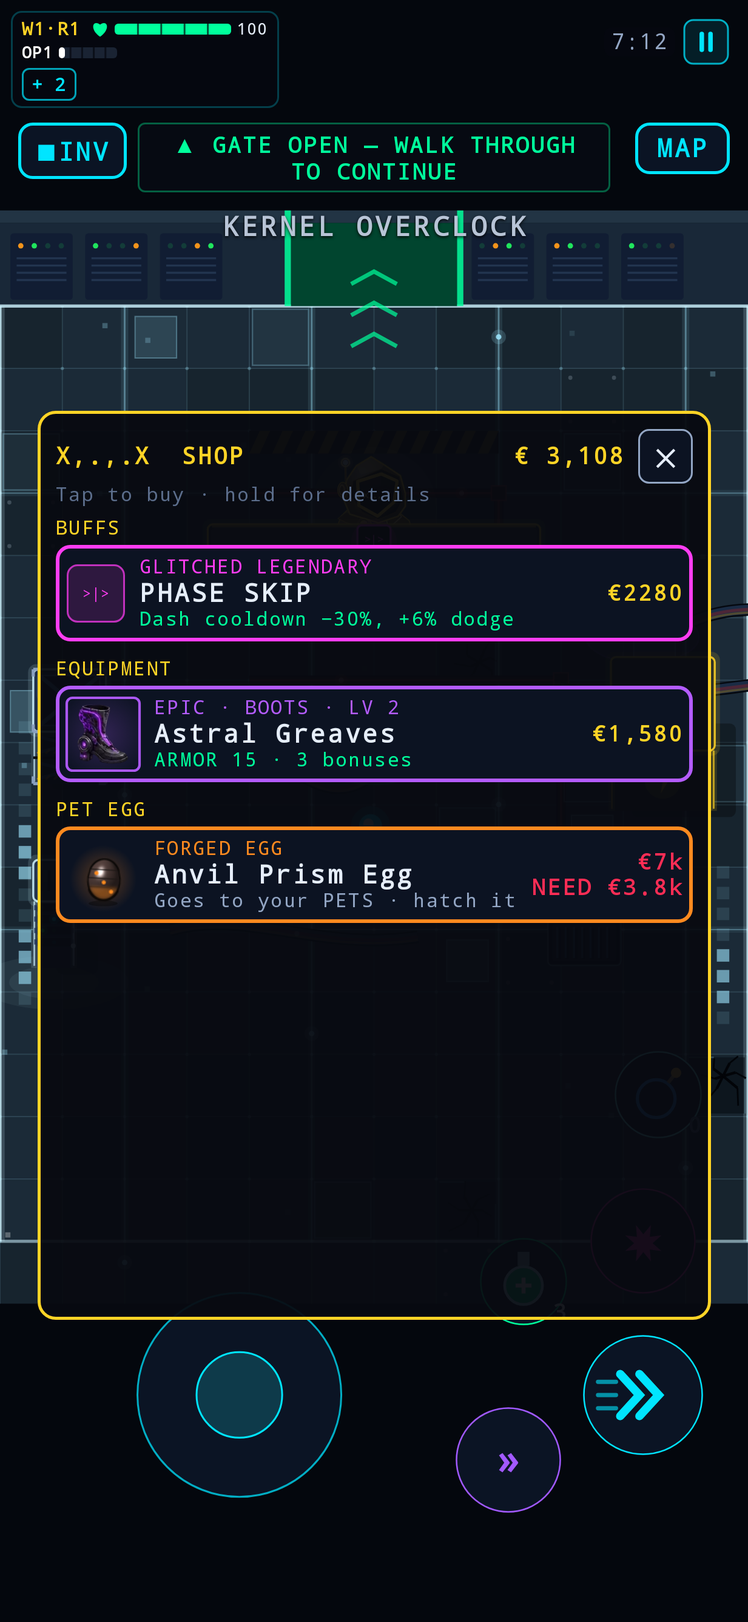
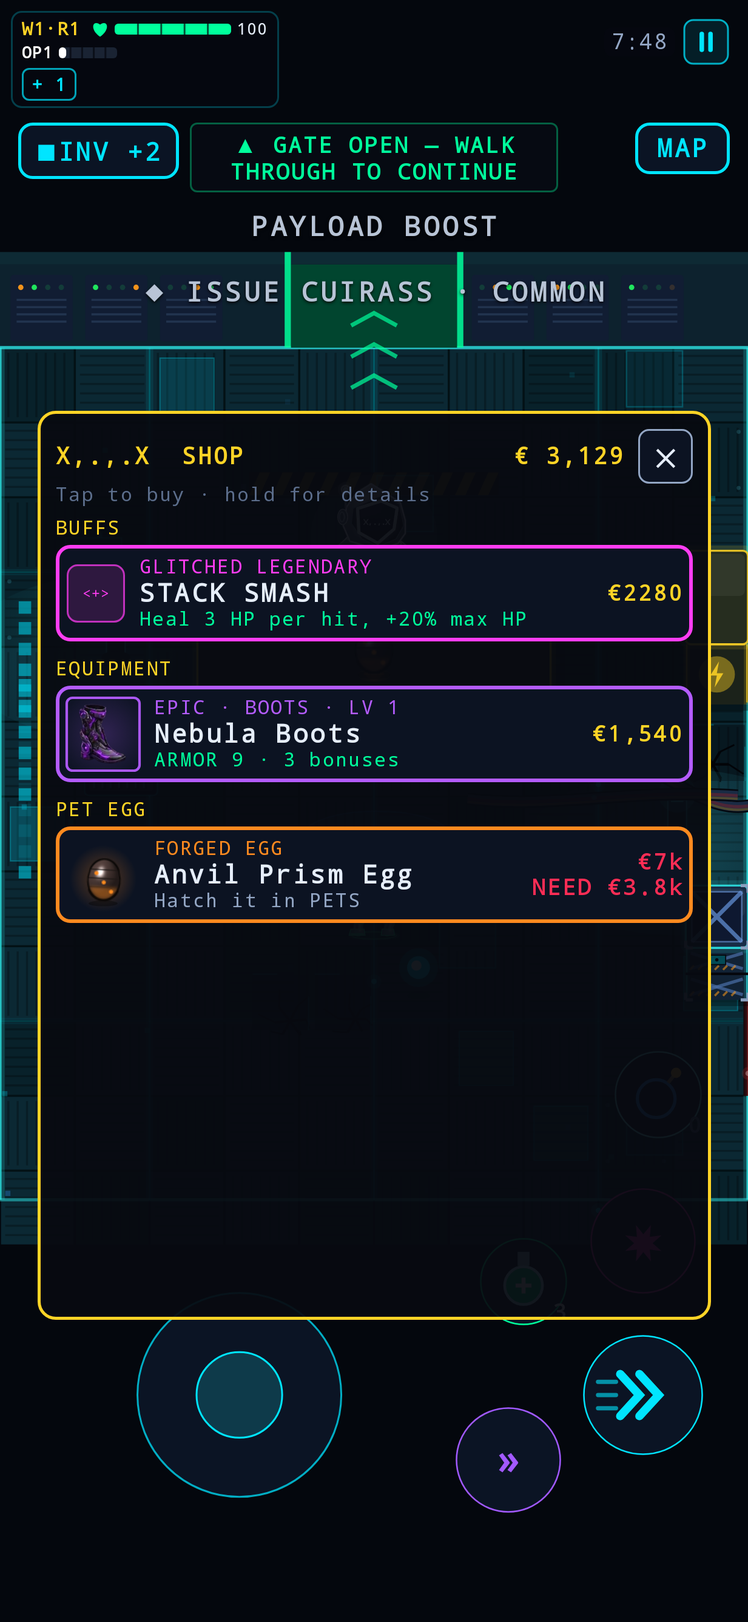
0.53.2: square shop counter shows the gear and egg for sale; barriers kept to the walls
The counter (340 x 170) lays out [ : egg : ]: two pieces of gear front and
back on each side of the egg, all at world-drop size over a table-high
rarity glow. Shop rooms get 1-2 slim fixtures flush to the side walls and
never inside the clear zone round the counter (shopKeepOut), checked over
300 rooms in phone and PC widths. Co-op protocol v37 (new room layout).

Claude-Session: https://claude.ai/code/session_01J4fYSi9rfQR62SLnfyrDCN

diff --git a/app/src/main/java/com/cyberoperative/game/ui/game/ArenaRenderer.kt b/app/src/main/java/com/cyberoperative/game/ui/game/ArenaRenderer.kt
@@ -1182,8 +1182,15 @@ class ArenaRenderer {
      * What a prop needs to know about its room, so the same prop art can also be drawn outside a
      * live game (asset sheets, the Idle Run widget).
      */
-    private val SHOP_EGG_PX = 38f
-    private val SHOP_EGG_GLOW = 0.45f
+    /** Shop counter items: the same size as a gear drop in the world (LootSprites, 58). */
+    private val SHOP_ITEM_PX = 58f
+
+    /** A small version of the rarity's loot glow, kept low on the counter (never over the keeper). */
+    private fun DrawScope.tableGlow(rarity: com.cyberoperative.game.data.GearRarity, x: Float, y: Float, time: Float) {
+        clipRect(x - 50f, y - SHOP_ITEM_PX - 18f, x + 50f, y + 12f) {
+            with(com.cyberoperative.game.ui.common.GearIcons) { drawLootBeam(rarity, x, y, time, 0.55f) }
+        }
+    }
 
     private class PropRoom {
         var keeper = com.cyberoperative.game.engine.KeeperLook.GOLD
@@ -1193,12 +1200,13 @@ class ArenaRenderer {
         var boss = false
         var shopItems: List<com.cyberoperative.game.engine.ShopItem> = emptyList()
         var shopEgg: com.cyberoperative.game.engine.EggShopItem? = null
+        var shopGear: List<com.cyberoperative.game.engine.GearShopItem> = emptyList()
     }
     private val liveRoom = PropRoom()
     private val aloneRoom = PropRoom()
 
     private fun propRoomOf(g: GameEngine): PropRoom = liveRoom.apply {
-        keeper = g.keeperLook; vaultReady = g.vaultReady; env = styleOf(g).env; inferno = infernoRoom(g); boss = g.plan.kind == LevelKind.BOSS; shopItems = g.shopItems; shopEgg = g.shopEgg
+        keeper = g.keeperLook; vaultReady = g.vaultReady; env = styleOf(g).env; inferno = infernoRoom(g); boss = g.plan.kind == LevelKind.BOSS; shopItems = g.shopItems; shopEgg = g.shopEgg; shopGear = g.shopGear
     }
 
     private fun themed(look: Look, kind: ObstacleKind, room: PropRoom): Look {
@@ -1504,44 +1512,48 @@ class ArenaRenderer {
                 drawCircle(Palette.Red.copy(alpha = 0.6f + 0.4f * p), 3.5f, Offset(r.centerX, topY + r.height / 2f))
             }
             ObstacleKind.SHOP_COUNTER -> {
-                // Glowing gold edge and the mods for sale laid out on the counter.
+                // 0.53.2 (owner): the gear for sale laid out [ : egg : ], two pieces (back and front)
+                // each side of the egg, at world-drop size over a table-high glow of its rarity, spaced
+                // so no two sprites touch. Each co-op player sees their own stock.
                 drawLine(Palette.Gold.copy(alpha = 0.5f), Offset(r.left + 4f, topY + 2f), Offset(r.right - 4f, topY + 2f), 2f)
-                val items = room.shopItems
-                val n = items.size.coerceAtLeast(1)
-                for ((i, it) in items.withIndex()) {
-                    val cx = r.left + r.width * (i + 0.5f) / n
-                    val cy = topY + r.height / 2f
-                    val col = Color(it.def.rarity.color)
-                    val bob = sin(time * 2.4f + i) * 2f
+                val gear = room.shopGear
+                val egg = room.shopEgg?.takeIf { !it.sold }
+                val colX = floatArrayOf(r.left + r.width / 6f, r.centerX, r.right - r.width / 6f)
+                val backY = topY + r.height * 0.41f
+                val frontY = topY + r.height * 0.92f
+                // Gear i: column 0 (left) or 2 (right), back row first so the front row overlaps it.
+                for (row in 0..1) for (side in 0..1) {
+                    val idx = side * 2 + row
+                    val it = gear.getOrNull(idx) ?: continue
+                    val cx = colX[side * 2]
+                    val baseY = if (row == 0) backY else frontY
+                    val bob = sin(time * 2.4f + idx) * 1.5f
                     if (!it.sold) {
-                        drawCircle(col.copy(alpha = 0.22f), 22f, Offset(cx, cy - 10f + bob))
-                        drawRoundRect(Color(0xFF0A0D14), Offset(cx - 16f, cy - 26f + bob), Size(32f, 26f), CornerRadius(4f))
-                        drawRoundRect(col, Offset(cx - 16f, cy - 26f + bob), Size(32f, 26f), CornerRadius(4f), style = Stroke(2f))
-                        tagPaint.textSize = 10f
-                        tagPaint.color = col.toArgb()
-                        drawGameText(it.def.glyph.take(5), cx, cy - 9f + bob, tagPaint)
+                        tableGlow(it.item.rarity, cx, baseY, time + idx)
+                        drawOval(Color.Black.copy(alpha = 0.4f), Offset(cx - 20f, baseY - 4f), Size(40f, 8f))
+                        with(com.cyberoperative.game.ui.common.GearIcons) { drawGear(it.item, cx, baseY - SHOP_ITEM_PX / 2f - 2f + bob, SHOP_ITEM_PX) }
                     } else {
-                        tagPaint.textSize = 10f
+                        tagPaint.textSize = 11f
                         tagPaint.color = Palette.TextMuted.toArgb()
-                        drawGameText("SOLD", cx, cy - 9f, tagPaint)
+                        drawGameText("SOLD", cx, baseY - 20f, tagPaint)
                     }
-                    // Price tag on the counter front.
-                    tagPaint.textSize = 11f
+                    // Back row: price on the table under the item; front row: on the counter front.
+                    tagPaint.textSize = if (row == 0) 11f else 12f
                     tagPaint.color = (if (it.sold) Palette.TextMuted else Palette.Euro).toArgb()
-                    drawGameText(if (it.sold) "---" else "€${it.price}", cx, frontTop + h * 0.7f, tagPaint)
+                    val label = if (it.sold) "---" else "€" + com.cyberoperative.game.ui.common.formatAmount(it.price.toLong())
+                    drawGameText(label, cx, if (row == 0) baseY + 12f else frontTop + h * 0.7f, tagPaint)
                 }
-                // 0.53.1: the egg for sale, front and centre on the counter, standing in a small
-                // version of its rarity's loot glow. Smaller than a world drop (38 vs 58 px).
-                room.shopEgg?.takeIf { !it.sold }?.let { e ->
-                    val ex = r.centerX
-                    val ey = topY + r.height * 0.86f
+                // The egg, front and centre, between the two columns. No egg for sale, nothing here.
+                if (egg != null) {
+                    val cx = colX[1]
+                    val baseY = topY + r.height * 0.7f
                     val bob = sin(time * 2.2f) * 1.5f
-                    // Kept low on the table, so the glow never climbs over the shopkeeper's face.
-                    clipRect(ex - 40f, ey - SHOP_EGG_PX - 14f, ex + 40f, ey + 10f) {
-                        with(com.cyberoperative.game.ui.common.GearIcons) { drawLootBeam(e.egg.rarity, ex, ey, time, SHOP_EGG_GLOW) }
-                    }
-                    drawOval(Color.Black.copy(alpha = 0.4f), Offset(ex - 11f, ey - 3f), Size(22f, 6f))
-                    with(com.cyberoperative.game.ui.common.PetArt) { drawEgg(e.egg.art, ex, ey + bob, SHOP_EGG_PX) }
+                    tableGlow(egg.egg.rarity, cx, baseY, time + 7f)
+                    drawOval(Color.Black.copy(alpha = 0.4f), Offset(cx - 16f, baseY - 4f), Size(32f, 8f))
+                    with(com.cyberoperative.game.ui.common.PetArt) { drawEgg(egg.egg.art, cx, baseY + bob, SHOP_ITEM_PX) }
+                    tagPaint.textSize = 12f
+                    tagPaint.color = Palette.Euro.toArgb()
+                    drawGameText("€" + com.cyberoperative.game.ui.common.formatAmount(egg.price.toLong()), cx, frontTop + h * 0.7f, tagPaint)
                 }
             }
             ObstacleKind.CRATES -> {

diff --git a/app/src/main/java/com/cyberoperative/game/engine/ArenaGenerator.kt b/app/src/main/java/com/cyberoperative/game/engine/ArenaGenerator.kt
@@ -246,7 +246,7 @@ object ArenaGenerator {
         ObstacleKind.REACTOR -> 86f to 86f
         ObstacleKind.ENERGY_BARRIER -> 170f to 26f
         ObstacleKind.ANTENNA_TOWER -> 36f to 36f
-        ObstacleKind.SHOP_COUNTER -> 320f to 50f
+        ObstacleKind.SHOP_COUNTER -> 340f to 170f
         ObstacleKind.BARRIER_CUBE, ObstacleKind.LOCK_CUBE -> 52f to 52f
     }
 
@@ -313,16 +313,20 @@ object ArenaGenerator {
         repeat(20) {
             val height = 820f + rng.nextInt(0, 3) * 40f
             val placed = ArrayList<ObstacleSpec>()
-            placed += ObstacleSpec(Rect(W / 2f - 160f, 250f, W / 2f + 160f, 300f), ObstacleKind.SHOP_COUNTER)
+            placed += counter()
             val fixtures = listOf(ObstacleKind.CRATES, ObstacleKind.SMALL_SERVER, ObstacleKind.REACTOR, ObstacleKind.ANTENNA_TOWER, ObstacleKind.COOLANT_PIPES, ObstacleKind.POWER_UNIT)
             var tries = 0
-            while (placed.size < 4 + rng.nextInt(3) && tries++ < 60) {
+            // 0.53.2 (owner): fewer fixtures (1-2), slim and flush against the side walls, never in
+            // the clear zone round the counter ([shopKeepOut]).
+            val keepOut = shopKeepOut()
+            while (placed.size < 2 + rng.nextInt(2) && tries++ < 60) {
                 val k = fixtures[rng.nextInt(fixtures.size)]
-                val (w, h) = sizeOf(k, rng).let { (a, b) -> minOf(a, 110f) to minOf(b, 110f) }
+                val (w, h) = sizeOf(k, rng).let { (a, b) -> minOf(a, FIXTURE_MAX_W) to minOf(b, 110f) }
                 val left = rng.nextBoolean()
-                val cx = if (left) MARGIN + 20f + w / 2f else W - MARGIN - 20f - w / 2f
-                val cy = 380f + rng.nextFloat() * (height - 640f)
+                val cx = if (left) w / 2f else W - w / 2f
+                val cy = 160f + rng.nextFloat() * (height - 380f)
                 val r = Rect(cx - w / 2f, cy - h / 2f, cx + w / 2f, cy + h / 2f)
+                if (r.intersectsRect(keepOut.left, keepOut.top, keepOut.right, keepOut.bottom)) continue
                 if (placed.any { o -> r.intersectsRect(o.rect.left - GAP, o.rect.top - GAP, o.rect.right + GAP, o.rect.bottom + GAP) }) continue
                 placed += ObstacleSpec(r, k)
             }
@@ -330,8 +334,30 @@ object ArenaGenerator {
             val a = Arena(t)
             if (a.isFree(a.spawnX, a.spawnY, 40f) && a.isFree(a.portalX, a.portalY, 50f) && reachable(a)) return t
         }
-        return ArenaTemplate("shop", "UPGRADE SHOP", 820f, listOf(ObstacleSpec(Rect(W / 2f - 160f, 250f, W / 2f + 160f, 300f), ObstacleKind.SHOP_COUNTER)))
+        return ArenaTemplate("shop", "UPGRADE SHOP", 820f, listOf(counter()))
     }
+
+    /**
+     * The shopkeeper's counter (0.53.2, owner): a squarer table, [ : egg : ], two pieces of gear
+     * (front and back) on each side of the egg, all at world-drop size without touching. Narrow
+     * enough to leave a wide walk round both ends on every screen.
+     */
+    private fun counter(): ObstacleSpec {
+        val w = minOf(COUNTER_WIDTH, W - 80f)
+        return ObstacleSpec(Rect(W / 2f - w / 2f, COUNTER_TOP, W / 2f + w / 2f, COUNTER_BOTTOM), ObstacleKind.SHOP_COUNTER)
+    }
+    /**
+     * The shop's clear zone (owner, 0.53.2): the counter plus 120 on each side, from the top wall
+     * to 320 below it. No fixture may touch it.
+     */
+    fun shopKeepOut(): Rect {
+        val c = counter().rect
+        return Rect(c.left - 120f, 0f, c.right + 120f, c.bottom + 320f)
+    }
+    private const val FIXTURE_MAX_W = 60f
+    private const val COUNTER_WIDTH = 340f
+    private const val COUNTER_TOP = 236f
+    private const val COUNTER_BOTTOM = 406f
 
     /** Grid flood fill: can the operative walk from spawn to the gate? */
     fun reachable(a: Arena): Boolean = reachableTo(a, a.portalX, a.portalY)

diff --git a/app/src/test/java/com/cyberoperative/game/V053ShopCounterTest.kt b/app/src/test/java/com/cyberoperative/game/V053ShopCounterTest.kt
@@ -1,0 +1,37 @@
+package com.cyberoperative.game
+
+import com.cyberoperative.game.data.ArenaShape
+import com.cyberoperative.game.data.ObstacleKind
+import com.cyberoperative.game.engine.Arena
+import com.cyberoperative.game.engine.ArenaGenerator
+import org.junit.Assert.assertTrue
+import org.junit.Test
+import kotlin.random.Random
+
+/** 0.53.2 (owner): a square counter, few barriers, all flush to the walls, none in the clear zone. */
+class V053ShopCounterTest {
+    @Test fun barriersNeverEnterTheClearZoneAndTheCounterCanBeWalkedRound() {
+        for (wide in listOf(false, true)) {
+            ArenaShape.wide = wide
+            try {
+                val zone = ArenaGenerator.shopKeepOut()
+                for (seed in 1L..300L) {
+                    val t = ArenaGenerator.shopRoom(Random(seed))
+                    val counter = t.obstacles.single { it.kind == ObstacleKind.SHOP_COUNTER }.rect
+                    assertTrue(counter.height >= 160f && counter.width <= 360f)
+                    val fixtures = t.obstacles.filter { it.kind != ObstacleKind.SHOP_COUNTER }
+                    assertTrue("seed $seed: ${fixtures.size} fixtures", fixtures.size <= 2)
+                    for (f in fixtures) {
+                        val r = f.rect
+                        assertTrue("seed $seed wide=$wide: $r in the clear zone", !r.intersectsRect(zone.left, zone.top, zone.right, zone.bottom))
+                        assertTrue("seed $seed: $r not on a wall", r.left <= 0.5f || r.right >= ArenaShape.width - 0.5f)
+                    }
+                    val a = Arena(t)
+                    assertTrue(ArenaGenerator.reachable(a))
+                    // Both ends of the counter leave a wide walk.
+                    assertTrue(counter.left >= 150f && ArenaShape.width - counter.right >= 150f)
+                }
+            } finally { ArenaShape.wide = false }
+        }
+    }
+}

diff --git a/app/src/main/java/com/cyberoperative/game/engine/GameEngine.kt b/app/src/main/java/com/cyberoperative/game/engine/GameEngine.kt
@@ -370,6 +370,8 @@ class GameEngine(val config: RunConfig = RunConfig(), restore: RunSnapshot? = nu
     val shopItems: List<ShopItem> get() = cur.shopItems
     /** This player's own shop egg (the host sees theirs, a co-op guest theirs), shown on the counter. */
     val shopEgg: EggShopItem? get() = cur.shopEgg
+    /** This player's own gear for sale, laid out on the counter. */
+    val shopGear: List<GearShopItem> get() = cur.shopGear
     /** Seed of the shop room (so a co-op guest builds the same room). */
     var shopSeed = 0L
         private set

diff --git a/app/src/main/java/com/cyberoperative/game/engine/CoopNet.kt b/app/src/main/java/com/cyberoperative/game/engine/CoopNet.kt
@@ -571,5 +571,5 @@ object CoopCodec {
     }
 
     /** Bump when the format changes; mismatched builds refuse each other's packets. */
-    const val VERSION = 36
+    const val VERSION = 37
 }

diff --git a/README.md b/README.md
@@ -16,7 +16,7 @@ Play **co-op** with a friend (friend codes, invites, live two-player runs; see `
 
 ## Project status
 
-`0.53.1` — the shop egg sits on the shopkeeper's counter with its rarity glow (each co-op player sees their own); `0.53.0` in-run shop sells a PET EGG (30% of shops, every INFERNO shop at GLITCHED LEGENDARY+) for 2× its sell value; `0.52.0` ◇5,000 for $29.99, compact in-match incubators, 1,000 eggs, sell / vault / trade pets and eggs (10× a weapon's value); `0.51.0` change pets mid-match (INVENTORY → PETS, co-op too), start hatching eggs mid-match, store eggs ◇100–◇400; `0.50.2` elite potions halved, player shots drawn at half size (hits unchanged); `0.50.1` store eggs GLITCHED LEGENDARY+ only, ◇300–◇900 by rarity; `0.50.0` DAILY EGGS (3 rotating offers), animated store eggs, skins previewed on your operator, PET CODEX; `0.49.1` 300 new pets and eggs (100 GLITCHED, 100 GLITCHED ENCRYPTED, 100 ENCRYPTED, all with never-before-used parts), eggs from Idle Runs; `0.49.0` 50 GLITCHED ENCRYPTED pets and eggs (animated, glitch-tearing, 12 h hatch); `0.48.1` compact HUD portrait-only and switchable in Settings, [+] auto-hides, opaque buttons (see-through switch), boss bar with HP numbers and phase blocks; `0.48.0` UI SQUISH: a small corner HUD on phones (+ opens €, score and buffs), thin boss bar in the boss's colour; `0.47.3` squished damage numbers on Android (11k / 7m / 1.2e13), compact buffs on landscape + PC, ■INV; `0.47.2` slimmer see-through phone HUD, half-size buffs in 3 rows; `0.47.1` Plasma Beam drawn at 15% thickness; `0.47.0` GLITCHED ENCRYPTED gear: a new top rarity, 650 pieces (50 per slot + 50 class weapons per class), cyan↔red glitch animations; `0.46.0` AUTO-SELL in Settings (sell everything below a chosen rarity); `0.45.3` fixed the silent NEON tracks on Android; `0.45.2` hatch sound effect, plus a full hatch clip in `docs/pets_new/hatch_animation.mp4`; `0.45.1` hatch glow from 1× (Common) to 2× (Encrypted) in the rarity's colour; `0.45.0` three incubators hatching at once (empty glass or the real egg inside), an animated hatch reveal with the pet's stats that grows with rarity; `0.44.0` operator redesign: the same figures with the pets' shading (matte cloth Packet Mage, Phantom hood and cape as before); `0.43.1` Technician without the small blaster; operator redesign concept; `0.43.0` instant hatch with € too (highest OP level × ◇ price × 100); `0.42.0` INSTANT HATCH for ◇ (4 × ⌈rarity × minutes ÷ 6⌉); `0.41.0` 500 animated ENCRYPTED pets in 14 colourways (orbiting orbs, gears, rings, propellers…); `0.40.0` 500 new GLITCHED…ENCRYPTED pets with their own eggs; `0.39.1` tougher NORMAL past level 100 (HARD rises with it), HARD Idle Runs (no GLITCHED/ENCRYPTED from idle); `0.39.0` GLITCHED LEGENDARY and ENCRYPTED gear + chips, FORGED…ABYSSAL chips (22 new chips: shoot while moving, heal per hit, auto/full-heal potions, ×2 damage…), Golden+ gear +30%, easier HARD past World 2 with 2 chips a room, bosses drop 3 HP potions, pet abilities, hatch notification; `0.38.0` COMPANIONS: eggs (drops + ◇ store), incubator with real-time hatching that ignores clock changes, Inferno Stones (−15% each, up to −90%), 1,005 pets that follow and fight; `0.37.6` 3 × 1 Idle Run widget; `0.37.5` five new NEON tracks on any level (never on bosses, never altered); `0.37.4` Idle Runs pay 40% € (XP stays 50%) and 20% less gear; `0.37.3` Idle Runs keep only EPIC and better gear; `0.37.2` Idle Runs last about twice as long again; `0.37.1` easier Idle Runs (they run about twice as long); `0.37.0` IDLE RUNS: your operator fights on with the game closed (50% € and XP), with a 2 × 3 Android home-screen widget and a notification when it falls; Boss Expansion bosses get moving parts (mesh rigs); `0.36.4` co-op € fully separate (your kills, your bags, your own payouts; trade to share); `0.36.3` one € total in co-op too; TRADE only shows when usable; short numbers (398k, 3.7m) when they don't fit; `0.36.2` the classic bosses get moving parts too (mesh rigs); `0.36.1` INFERNO bosses get real moving parts (deformable mesh rigs); `0.36.0` INFERNO bosses redrawn from the owner's pack paintings with animation rigs; recorded INFERNO drop sounds; `0.35.1` each INFERNO boss has its own colour; `0.35.0` sell backpack items; co-op TRADE; 15 INFERNO-only bosses (Packs Alpha/Beta/Gamma); Shadow Step knives, smarter Firestorm, wall-piercing Arcane Nova; signature perks on Legendary+ gear; `0.34.0` INFERNO levels 1–500 (curve A, level stepper); one Data Vault shared by every character (main-menu DATA VAULT); ABYSSAL in ~1 shop in 100; `0.33.0` four INFERNO equipment rarities (Forged, Voltaic, Celestial, Abyssal) with their own art, animated cards, auras and base × INFERNO level drop odds; `0.32.0` € carries over between runs; 4 equipment pieces (PURPLE+) in the shop; INFERNO soundtrack; `0.31.0` co-op shared XP and smoother partners; PC exit button, 2× HUD, big ability bar, keybinds in pause; `0.30.5` XP bar reads OC Lv after level 60; `0.30.4` fixed a fake left EXIT door; Circuit Hydra loses 10% HP per head destroyed; `0.30.3` white XP bar in the HUD; rooms follow the screen orientation; `0.30.2` level XP ×10 (1–60 is 29.2M XP; saves keep their level); `0.30.1` fixed the keyboard closing on the character name and the Packet Mage face parts; `0.30.0` Data Vault update phase 2: gear loot (the owner's art, 8 rarities, beams + sheen), CHARACTER / GEAR / DATA VAULT screens with drag-to-equip, character creator and named characters, in-game INVENTORY; `0.29.0` INFERNO I–X difficulties with a hell look; `0.28.0` Data Vault update phase 1: OP Lv 1–60 + Overclock, Diablo armor, no Firewall, € wipe; `0.27.0` world server: MOVE TO NEXT WORLD (co-op 1/2 ready); `0.26.3` fix: no way on to the next world after the shop; `0.26.2` slim Android landscape HUD; `0.26.1` PC direct-IP co-op (no Steam needed); `0.26.0` co-op shop (a shop each, in and out together); `0.25.9` no HP/Firewall regen over time, MAP corner kept clear of touch buttons; `0.25.8` compact shop window; `0.25.7` room slide follows the door direction; `0.25.6` ALL COLOUR SKINS pack ◇1400; `0.25.5` skins renamed by colour; `0.25.4` fixed the crash on START; crash reporter; PURPLE/GLITCHED campaign skins, GOLD and NEON (◇1000) skins, PROXY SHOT removed; boss loot sprays out; per-player co-op loot; World-map CAMPAIGN (15 worlds); Steam build (PC + Steam Deck, landscape) added in `desktop/`; Boss Expansion Vol. 1 under way; 0.16.0 balance pass (pooled mastery, bigger Packet Flood) (see `DEVELOPMENT_STATE.md` and `docs/BOSS_EXPANSION_LOG.md`).
+`0.53.2` — square shop counter laying out the gear and egg for sale [ : egg : ] at drop size, fewer barriers pushed to the walls; `0.53.1` the shop egg sits on the shopkeeper's counter with its rarity glow (each co-op player sees their own); `0.53.0` in-run shop sells a PET EGG (30% of shops, every INFERNO shop at GLITCHED LEGENDARY+) for 2× its sell value; `0.52.0` ◇5,000 for $29.99, compact in-match incubators, 1,000 eggs, sell / vault / trade pets and eggs (10× a weapon's value); `0.51.0` change pets mid-match (INVENTORY → PETS, co-op too), start hatching eggs mid-match, store eggs ◇100–◇400; `0.50.2` elite potions halved, player shots drawn at half size (hits unchanged); `0.50.1` store eggs GLITCHED LEGENDARY+ only, ◇300–◇900 by rarity; `0.50.0` DAILY EGGS (3 rotating offers), animated store eggs, skins previewed on your operator, PET CODEX; `0.49.1` 300 new pets and eggs (100 GLITCHED, 100 GLITCHED ENCRYPTED, 100 ENCRYPTED, all with never-before-used parts), eggs from Idle Runs; `0.49.0` 50 GLITCHED ENCRYPTED pets and eggs (animated, glitch-tearing, 12 h hatch); `0.48.1` compact HUD portrait-only and switchable in Settings, [+] auto-hides, opaque buttons (see-through switch), boss bar with HP numbers and phase blocks; `0.48.0` UI SQUISH: a small corner HUD on phones (+ opens €, score and buffs), thin boss bar in the boss's colour; `0.47.3` squished damage numbers on Android (11k / 7m / 1.2e13), compact buffs on landscape + PC, ■INV; `0.47.2` slimmer see-through phone HUD, half-size buffs in 3 rows; `0.47.1` Plasma Beam drawn at 15% thickness; `0.47.0` GLITCHED ENCRYPTED gear: a new top rarity, 650 pieces (50 per slot + 50 class weapons per class), cyan↔red glitch animations; `0.46.0` AUTO-SELL in Settings (sell everything below a chosen rarity); `0.45.3` fixed the silent NEON tracks on Android; `0.45.2` hatch sound effect, plus a full hatch clip in `docs/pets_new/hatch_animation.mp4`; `0.45.1` hatch glow from 1× (Common) to 2× (Encrypted) in the rarity's colour; `0.45.0` three incubators hatching at once (empty glass or the real egg inside), an animated hatch reveal with the pet's stats that grows with rarity; `0.44.0` operator redesign: the same figures with the pets' shading (matte cloth Packet Mage, Phantom hood and cape as before); `0.43.1` Technician without the small blaster; operator redesign concept; `0.43.0` instant hatch with € too (highest OP level × ◇ price × 100); `0.42.0` INSTANT HATCH for ◇ (4 × ⌈rarity × minutes ÷ 6⌉); `0.41.0` 500 animated ENCRYPTED pets in 14 colourways (orbiting orbs, gears, rings, propellers…); `0.40.0` 500 new GLITCHED…ENCRYPTED pets with their own eggs; `0.39.1` tougher NORMAL past level 100 (HARD rises with it), HARD Idle Runs (no GLITCHED/ENCRYPTED from idle); `0.39.0` GLITCHED LEGENDARY and ENCRYPTED gear + chips, FORGED…ABYSSAL chips (22 new chips: shoot while moving, heal per hit, auto/full-heal potions, ×2 damage…), Golden+ gear +30%, easier HARD past World 2 with 2 chips a room, bosses drop 3 HP potions, pet abilities, hatch notification; `0.38.0` COMPANIONS: eggs (drops + ◇ store), incubator with real-time hatching that ignores clock changes, Inferno Stones (−15% each, up to −90%), 1,005 pets that follow and fight; `0.37.6` 3 × 1 Idle Run widget; `0.37.5` five new NEON tracks on any level (never on bosses, never altered); `0.37.4` Idle Runs pay 40% € (XP stays 50%) and 20% less gear; `0.37.3` Idle Runs keep only EPIC and better gear; `0.37.2` Idle Runs last about twice as long again; `0.37.1` easier Idle Runs (they run about twice as long); `0.37.0` IDLE RUNS: your operator fights on with the game closed (50% € and XP), with a 2 × 3 Android home-screen widget and a notification when it falls; Boss Expansion bosses get moving parts (mesh rigs); `0.36.4` co-op € fully separate (your kills, your bags, your own payouts; trade to share); `0.36.3` one € total in co-op too; TRADE only shows when usable; short numbers (398k, 3.7m) when they don't fit; `0.36.2` the classic bosses get moving parts too (mesh rigs); `0.36.1` INFERNO bosses get real moving parts (deformable mesh rigs); `0.36.0` INFERNO bosses redrawn from the owner's pack paintings with animation rigs; recorded INFERNO drop sounds; `0.35.1` each INFERNO boss has its own colour; `0.35.0` sell backpack items; co-op TRADE; 15 INFERNO-only bosses (Packs Alpha/Beta/Gamma); Shadow Step knives, smarter Firestorm, wall-piercing Arcane Nova; signature perks on Legendary+ gear; `0.34.0` INFERNO levels 1–500 (curve A, level stepper); one Data Vault shared by every character (main-menu DATA VAULT); ABYSSAL in ~1 shop in 100; `0.33.0` four INFERNO equipment rarities (Forged, Voltaic, Celestial, Abyssal) with their own art, animated cards, auras and base × INFERNO level drop odds; `0.32.0` € carries over between runs; 4 equipment pieces (PURPLE+) in the shop; INFERNO soundtrack; `0.31.0` co-op shared XP and smoother partners; PC exit button, 2× HUD, big ability bar, keybinds in pause; `0.30.5` XP bar reads OC Lv after level 60; `0.30.4` fixed a fake left EXIT door; Circuit Hydra loses 10% HP per head destroyed; `0.30.3` white XP bar in the HUD; rooms follow the screen orientation; `0.30.2` level XP ×10 (1–60 is 29.2M XP; saves keep their level); `0.30.1` fixed the keyboard closing on the character name and the Packet Mage face parts; `0.30.0` Data Vault update phase 2: gear loot (the owner's art, 8 rarities, beams + sheen), CHARACTER / GEAR / DATA VAULT screens with drag-to-equip, character creator and named characters, in-game INVENTORY; `0.29.0` INFERNO I–X difficulties with a hell look; `0.28.0` Data Vault update phase 1: OP Lv 1–60 + Overclock, Diablo armor, no Firewall, € wipe; `0.27.0` world server: MOVE TO NEXT WORLD (co-op 1/2 ready); `0.26.3` fix: no way on to the next world after the shop; `0.26.2` slim Android landscape HUD; `0.26.1` PC direct-IP co-op (no Steam needed); `0.26.0` co-op shop (a shop each, in and out together); `0.25.9` no HP/Firewall regen over time, MAP corner kept clear of touch buttons; `0.25.8` compact shop window; `0.25.7` room slide follows the door direction; `0.25.6` ALL COLOUR SKINS pack ◇1400; `0.25.5` skins renamed by colour; `0.25.4` fixed the crash on START; crash reporter; PURPLE/GLITCHED campaign skins, GOLD and NEON (◇1000) skins, PROXY SHOT removed; boss loot sprays out; per-player co-op loot; World-map CAMPAIGN (15 worlds); Steam build (PC + Steam Deck, landscape) added in `desktop/`; Boss Expansion Vol. 1 under way; 0.16.0 balance pass (pooled mastery, bigger Packet Flood) (see `DEVELOPMENT_STATE.md` and `docs/BOSS_EXPANSION_LOG.md`).
 
 | | |
 |---|---|

diff --git a/DEVELOPMENT_STATE.md b/DEVELOPMENT_STATE.md
@@ -6,7 +6,7 @@ _Read this first in every new session, then README, GAME_DESIGN, BACKLOG, CHANGE
 
 | | |
 |---|---|
-| Version | 0.53.1 (versionCode 147) |
+| Version | 0.53.2 (versionCode 148) |
 | Milestone | M1 vertical slice ✅ · M2 first boss & systems ✅ (pending device playtest) |
 | Last completed | 0.9.5 fullscreen HUD redesign (ui/game/GameHud.kt, buff chips in UpgradeBar.kt) |
 | Current task | Waiting on owner: body design (CO-094) and Power-Up Board picks (CO-090) |
@@ -14,6 +14,11 @@ _Read this first in every new session, then README, GAME_DESIGN, BACKLOG, CHANGE
 | Test status | `./gradlew :app:testDebugUnitTest` ✅ (32 tests + 15 opt-in screenshot renders) |
 
 ## Known issues / caveats
+- **0.53.2:**
+  - `ArenaGenerator.counter()` is 340 × 170 at y 236–406. `shopRoom` places 1–2 fixtures (≤ 60 wide) flush against the walls, never inside `ArenaGenerator.shopKeepOut()` (the counter ±120, from y 0 to its bottom + 320).
+  - `ArenaRenderer` SHOP_COUNTER draws `GameEngine.shopGear` (`cur`) as [ : egg : ]: gear 0/1 on the left (back/front), gear 2/3 on the right, the egg in the middle, at `SHOP_ITEM_PX` 58 with `tableGlow`.
+  - The chips are no longer on the table; they are only in the panel.
+  - Co-op `VERSION` 37.
 - **0.53.1:**
   - The counter egg is drawn in `ArenaRenderer` (SHOP_COUNTER) from `PropRoom.shopEgg`, which comes from `GameEngine.shopEgg` (`cur.shopEgg`, i.e. the local player's).
   - Sizes: `SHOP_EGG_PX` 38 and `SHOP_EGG_GLOW` 0.45, using the `drawLootBeam` glow clipped to the table.

diff --git a/CHANGELOG.md b/CHANGELOG.md
@@ -1,5 +1,19 @@
 # Changelog
 
+## 0.53.2 (versionCode 148) — 2026-10-18 · Bigger shop counter showing the gear and egg for sale
+### Changed (owner)
+- **The counter shows the gear for sale instead of the chips**, laid out **[ : egg : ]**:
+  - two weapons / armor pieces (back and front) on each side, with the egg (if any) **in the middle**;
+  - every item is **drop-sized** (58 px, like gear in the world), including the egg;
+  - each item stands over a low glow in its rarity's colour and animation, and no two sprites touch;
+  - sold items show SOLD;
+  - prices use short numbers (€1.5k, €6k): back-row prices on the table, front-row and egg prices on the counter front;
+  - each co-op player still sees their own stock.
+- **Bigger, squarer counter:** 340 × 170 (was 320 × 50). It leaves a wide walk round both ends on every screen, about 190 px each side in portrait.
+- **Fewer barriers, pushed to the walls:** 1–2 fixtures (was 3–5), at most 60 wide and flush against the side walls.
+- **A clear zone barriers can never enter:** the counter plus 120 on each side, from the top gate down to 320 below the counter. `V053ShopCounterTest` checks 300 rooms each in phone and PC widths.
+- The room layout changed, so the co-op protocol is now v37 and both players need this update.
+
 ## 0.53.1 (versionCode 147) — 2026-10-18 · The shop egg sits on the counter
 ### Added (owner)
 - **The egg for sale is on the shopkeeper's counter, front and centre**, drawn with its own egg sprite.

diff --git a/BACKLOG.md b/BACKLOG.md
@@ -5,6 +5,7 @@
 device, tune balance, then fill out the store/meta phases.
 
 ## IN PROGRESS
+- ✅ 0.53.2: square shop counter [ : egg : ] showing gear + egg at drop size; fewer barriers, flush to the walls.
 - ✅ 0.53.1: shop egg shown on the counter (own sprite, rarity glow; each co-op player sees their own).
 - ✅ 0.53.0: in-run shop sells 1 pet egg (30% of shops; every INFERNO shop, GLITCHED LEGENDARY+), 2× its sell value.
 - ✅ 0.52.0: ◇5,000 pack, compact incubators in-match, 1,000 eggs, sell / vault / trade pets and eggs.
